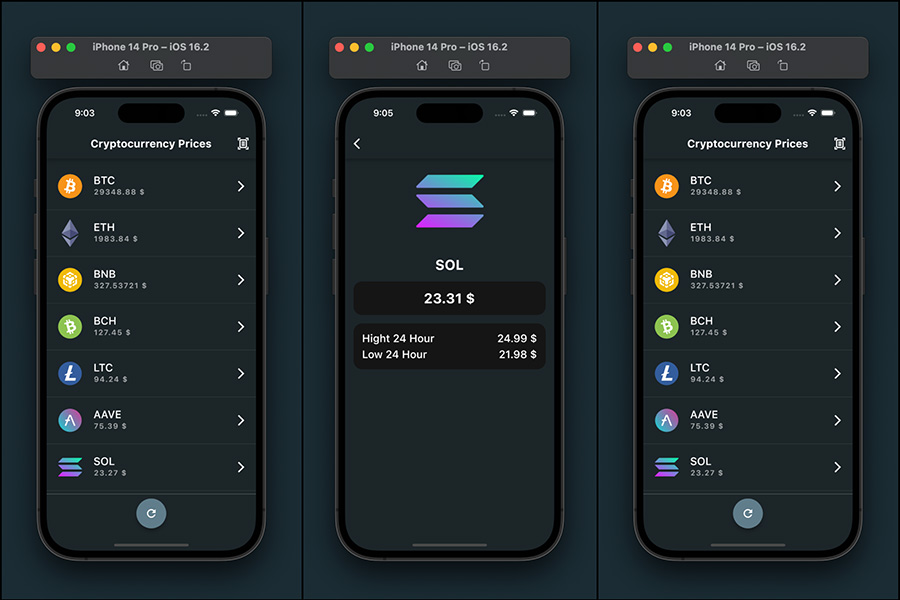
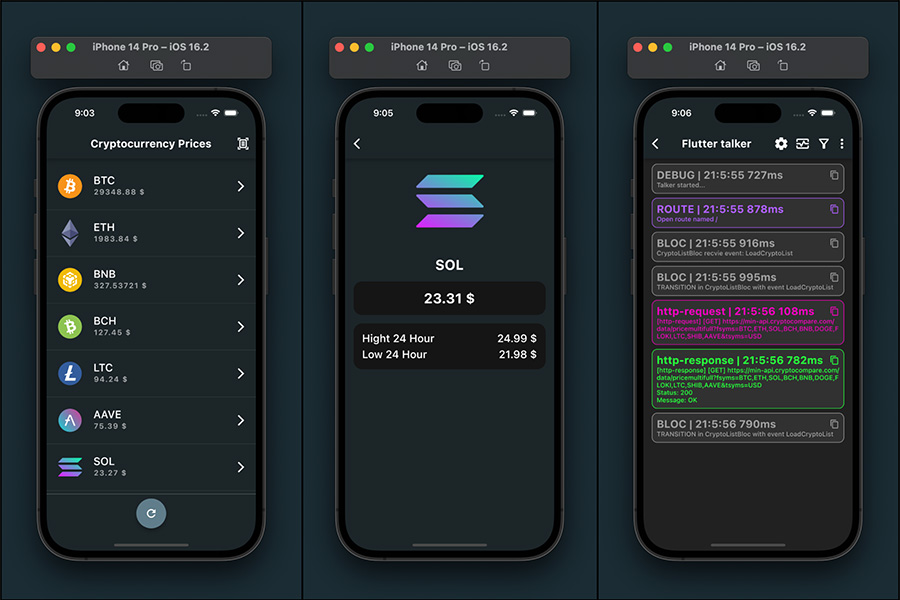
README & preview updated

Changed region(s): [[0.7156, 0.21, 0.9644, 0.9]]

diff --git a/README.md b/README.md
@@ -4,6 +4,8 @@
 
 ### Cryptocurrency Price List App - A new Flutter project
 
+## Advanced error handling and logging for Dart and Flutter apps is supporting by ![Talker](https://pub.dev/packages/talker)
+
 ---
 
 A few resources to get you started if this is your first Flutter project:
